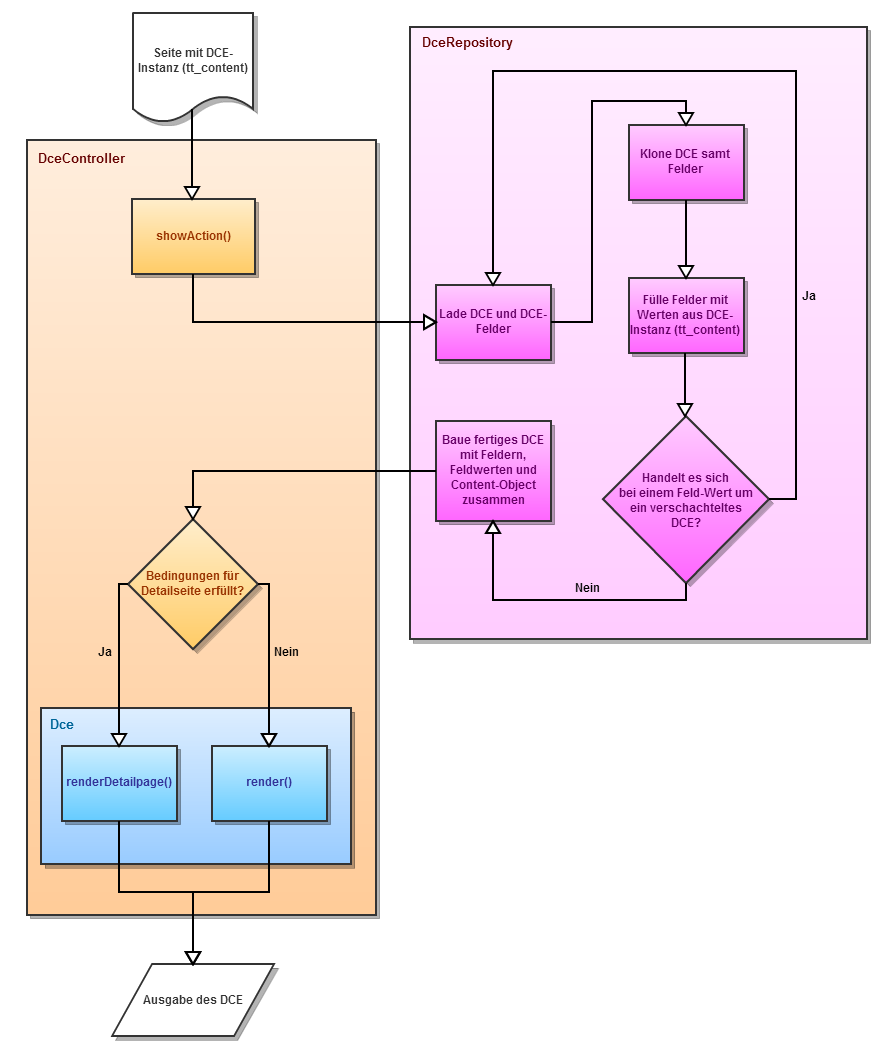
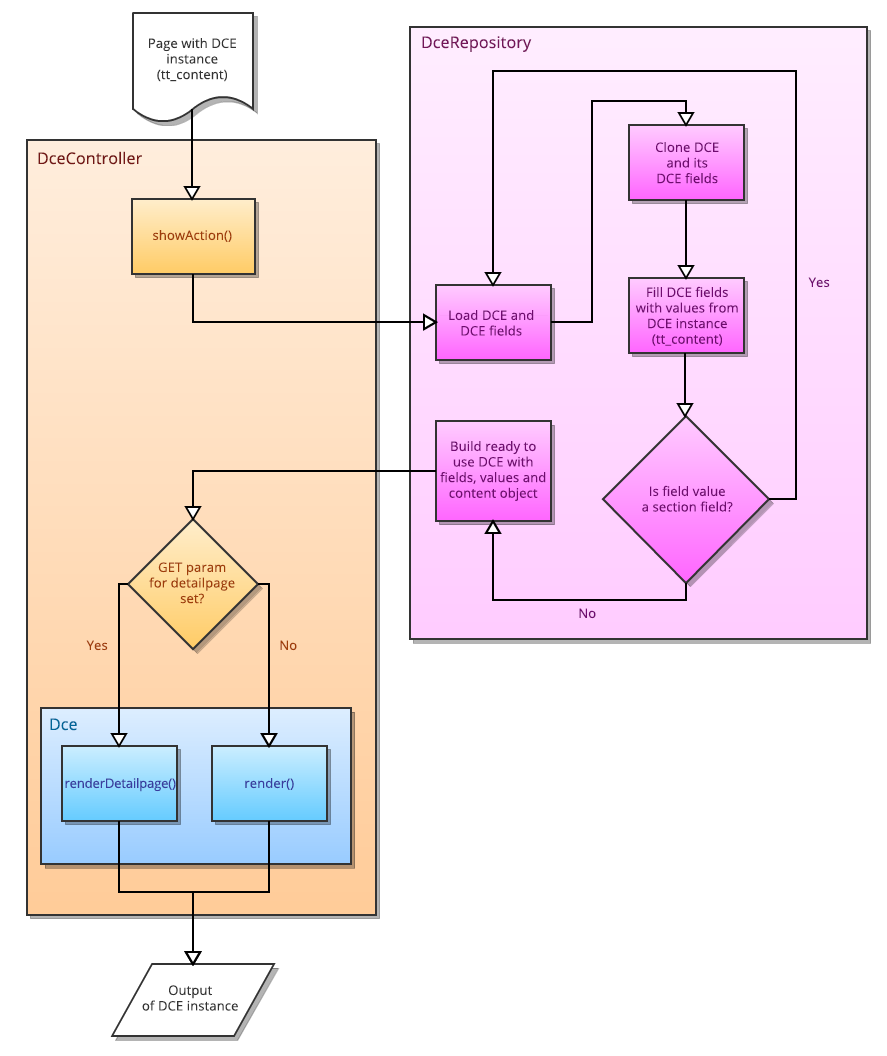
[TASK] Writing documentation
Some updates

Relates: #58535

diff --git a/Documentation/UsersManual/UserFaq.rst b/Documentation/UsersManual/UserFaq.rst
@@ -55,9 +55,37 @@ You can access the fields of a section by iterating over the section elements:
 
 **How to translate fields in the BE?**
 
-The translation of fields in the backend is planned for version 2.0 of the extension.
+Instead of writing down the absolute title of the field, you may also add a path to a locallang file and a key inside of this file.
 
-`Backend module: Translatable fields <http://forge.typo3.org/issues/58540>`_
+Example:
+
+::
+
+	LLL:fileadmin/templates/locallang.xml:myCoolTranslatedField
+
+
+The locallang.xml file content:
+
+::
+
+	<?xml version="1.0" encoding="utf-8" standalone="yes" ?>
+	<T3locallang>
+		<meta type="array">
+			<type>module</type>
+			<description>Language labels for the DCEs in backend</description>
+		</meta>
+		<data type="array">
+			<languageKey index="default" type="array">
+				<label index="myCoolTranslatedField">My cool translated field</label>
+			</languageKey>
+			<languageKey index="de" type="array">
+				<label index="myCoolTranslatedField">Mein cooles, übersetztes Feld</label>
+			</languageKey>
+		</data>
+	</T3locallang>
+
+
+A more comfortable way to translate fields in the backend is planned for version 2.0 of the extension. (`Backend module: Translatable fields <http://forge.typo3.org/issues/58540>`_)
 
 
 **How to render the content of an RTE field?**
@@ -125,4 +153,8 @@ The link to changeover to the detail page looks like this:
 Where detailUid is the value of the field "Detail page identifier (get parameter)" you have set on the "Detail page" tab.
 
 
+**How to add content elements to my DCE**
 
+If you are looking for a way to create columns and put content elements in these columns right in page modules - this is not supported by DCE. For this case I recommend the `grid elements extension <http://typo3.org/extensions/repository/view/gridelements>`_.
+
+But if you create a group or select field you may define the tt_content table and add existing content elements. This is not much comfortable but very flexible, because you may also add any other table of any extension installed. And with the *dce_load_schema* flag you'll receive an assosiative array of requested row, or if the table is from an extbase extension you'll get a model of the requested table.

diff --git a/Documentation/AdministratorManual/Index.rst b/Documentation/AdministratorManual/Index.rst
@@ -116,7 +116,6 @@ Also new with 0.5 is the so called detail view. That is an alternative display o
 .. figure:: ../Images/AdministratorManual/renderingSequence.png
 	:alt: DCE rendering sequence
 
-TODO: Replace image with the english version of the sequence diagram
 
 Caching
 ^^^^^^^

diff --git a/Documentation/UsersManual/Index.rst b/Documentation/UsersManual/Index.rst
@@ -472,7 +472,7 @@ Open tasks:
 -----------
 See all open tasks `here`_ in the forge bug tracker.
 
-.. _here: http://forge.typo3.org/projects/extension-dce/issues
+.. _here: http://forge.typo3.org/projects/extension-dce/issues?query_id=524
 
 Donate:
 -------
